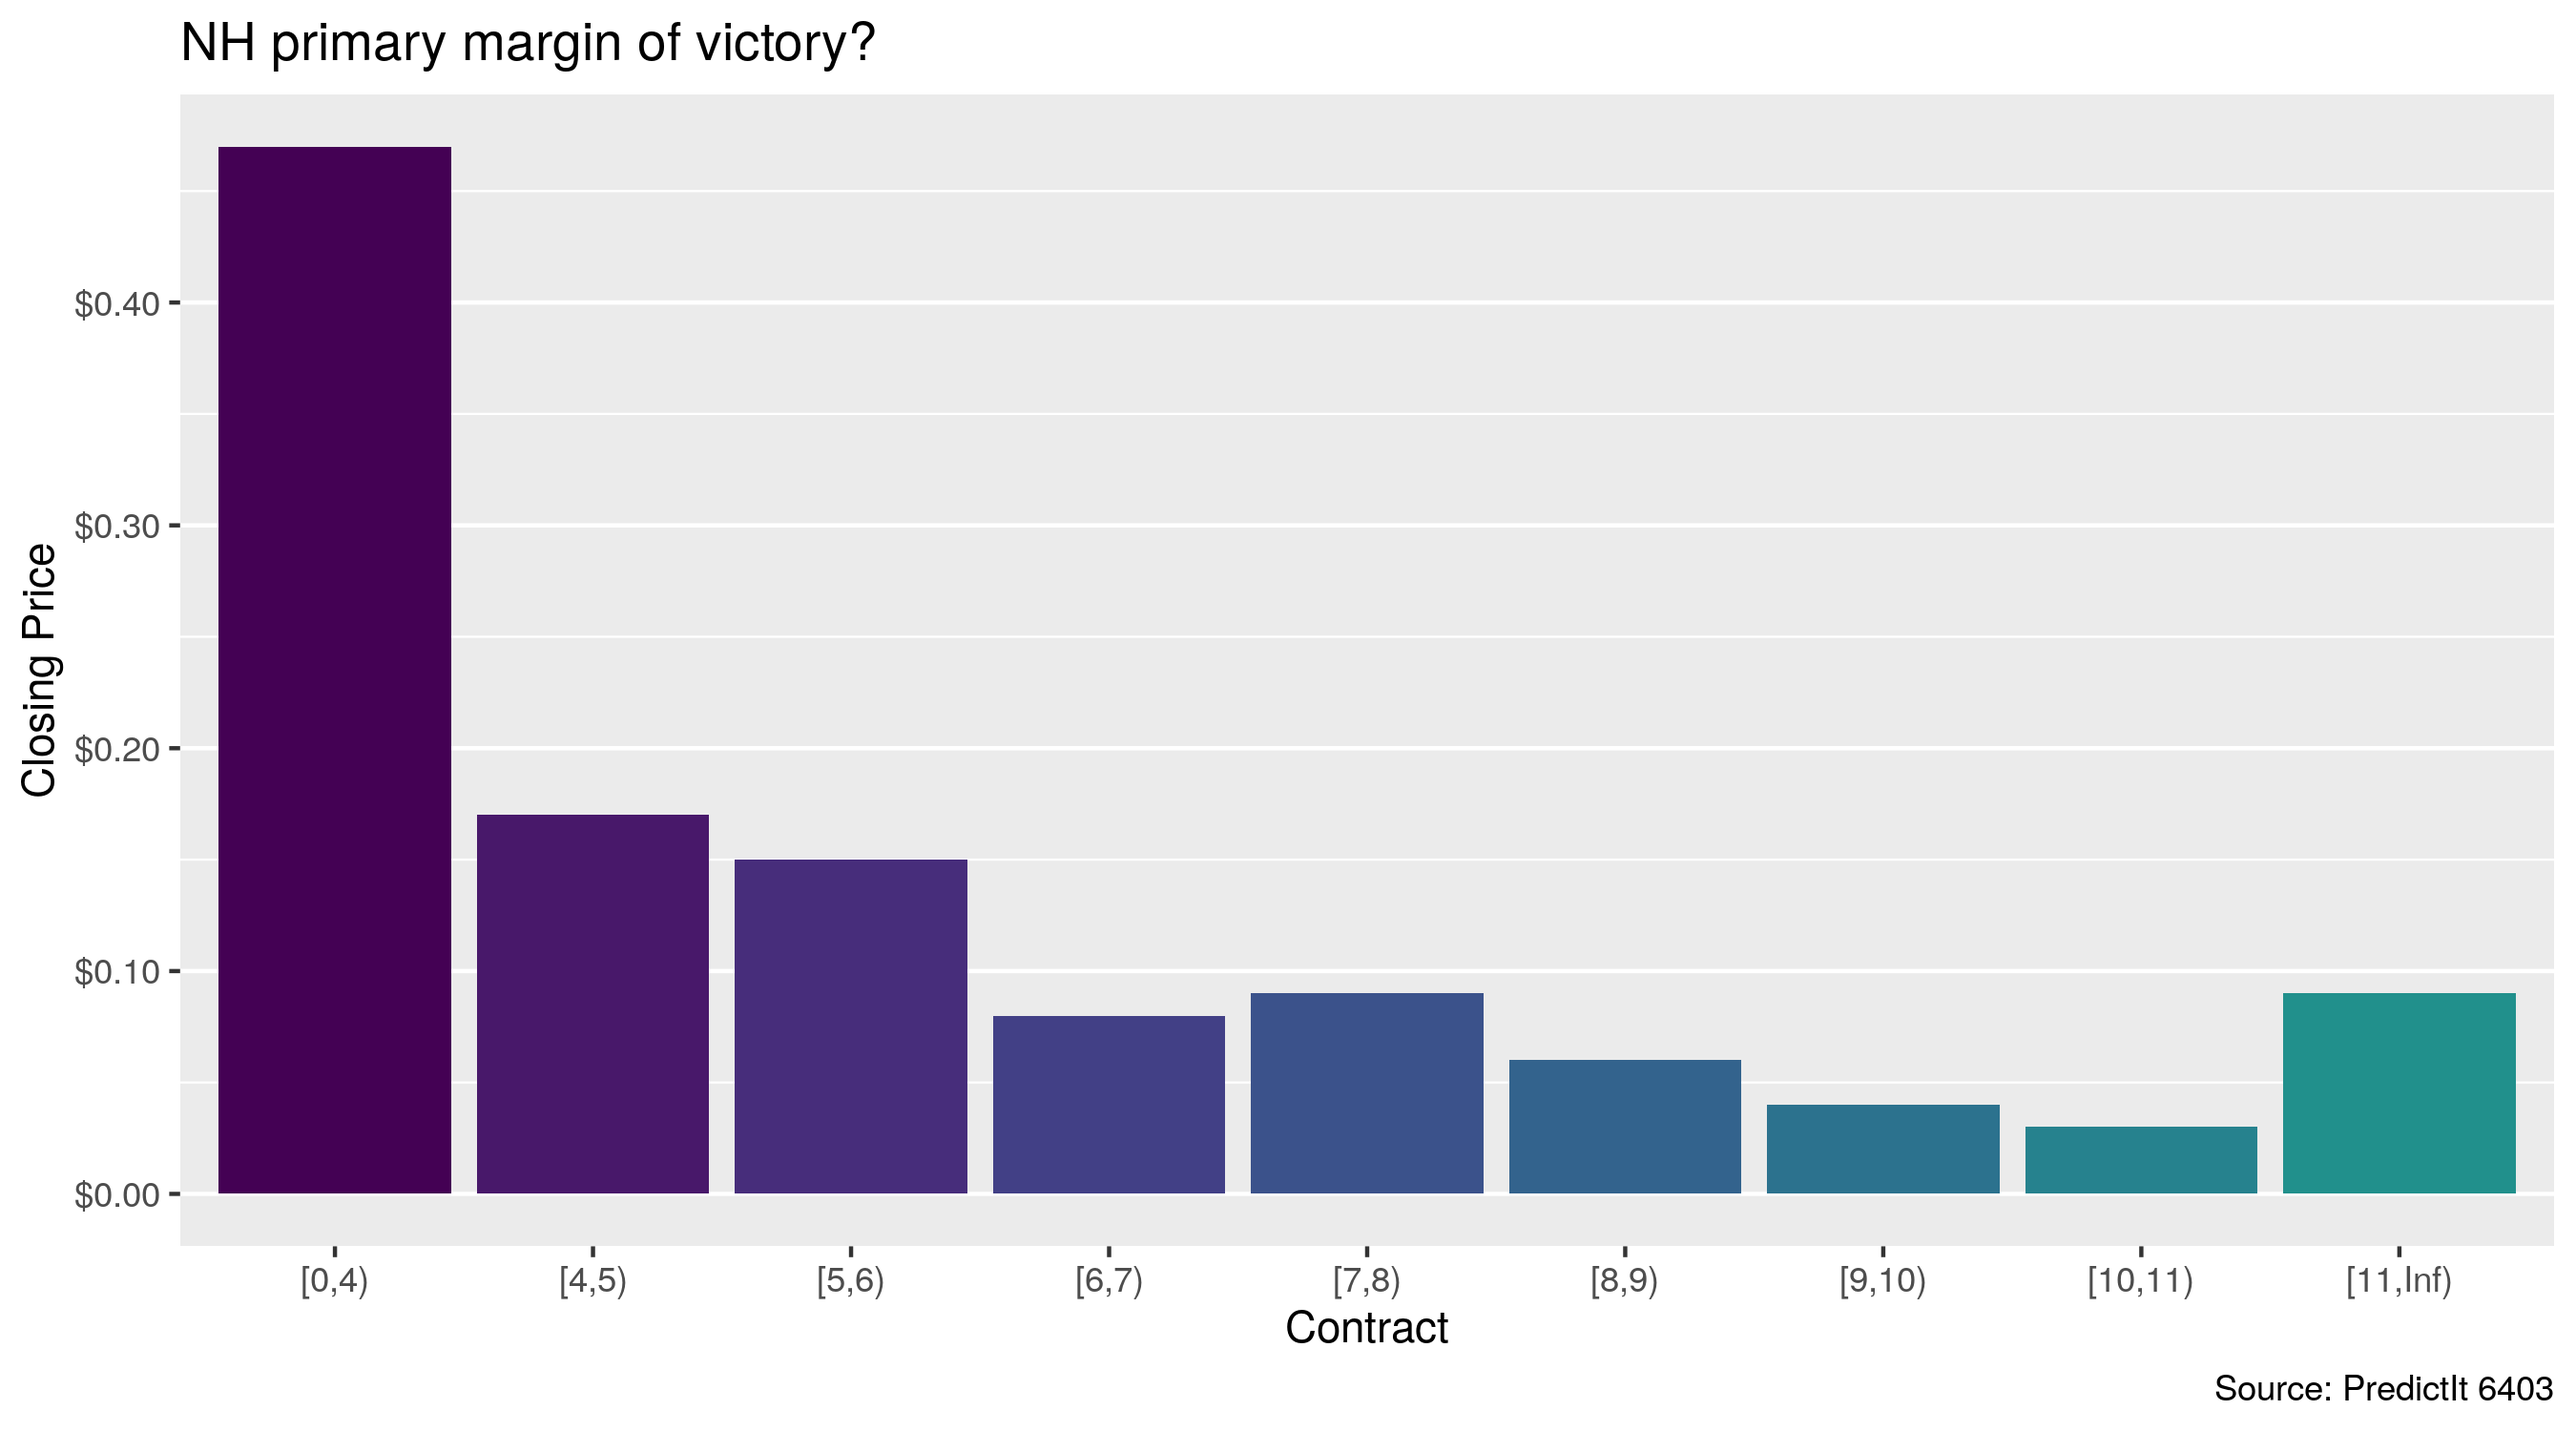
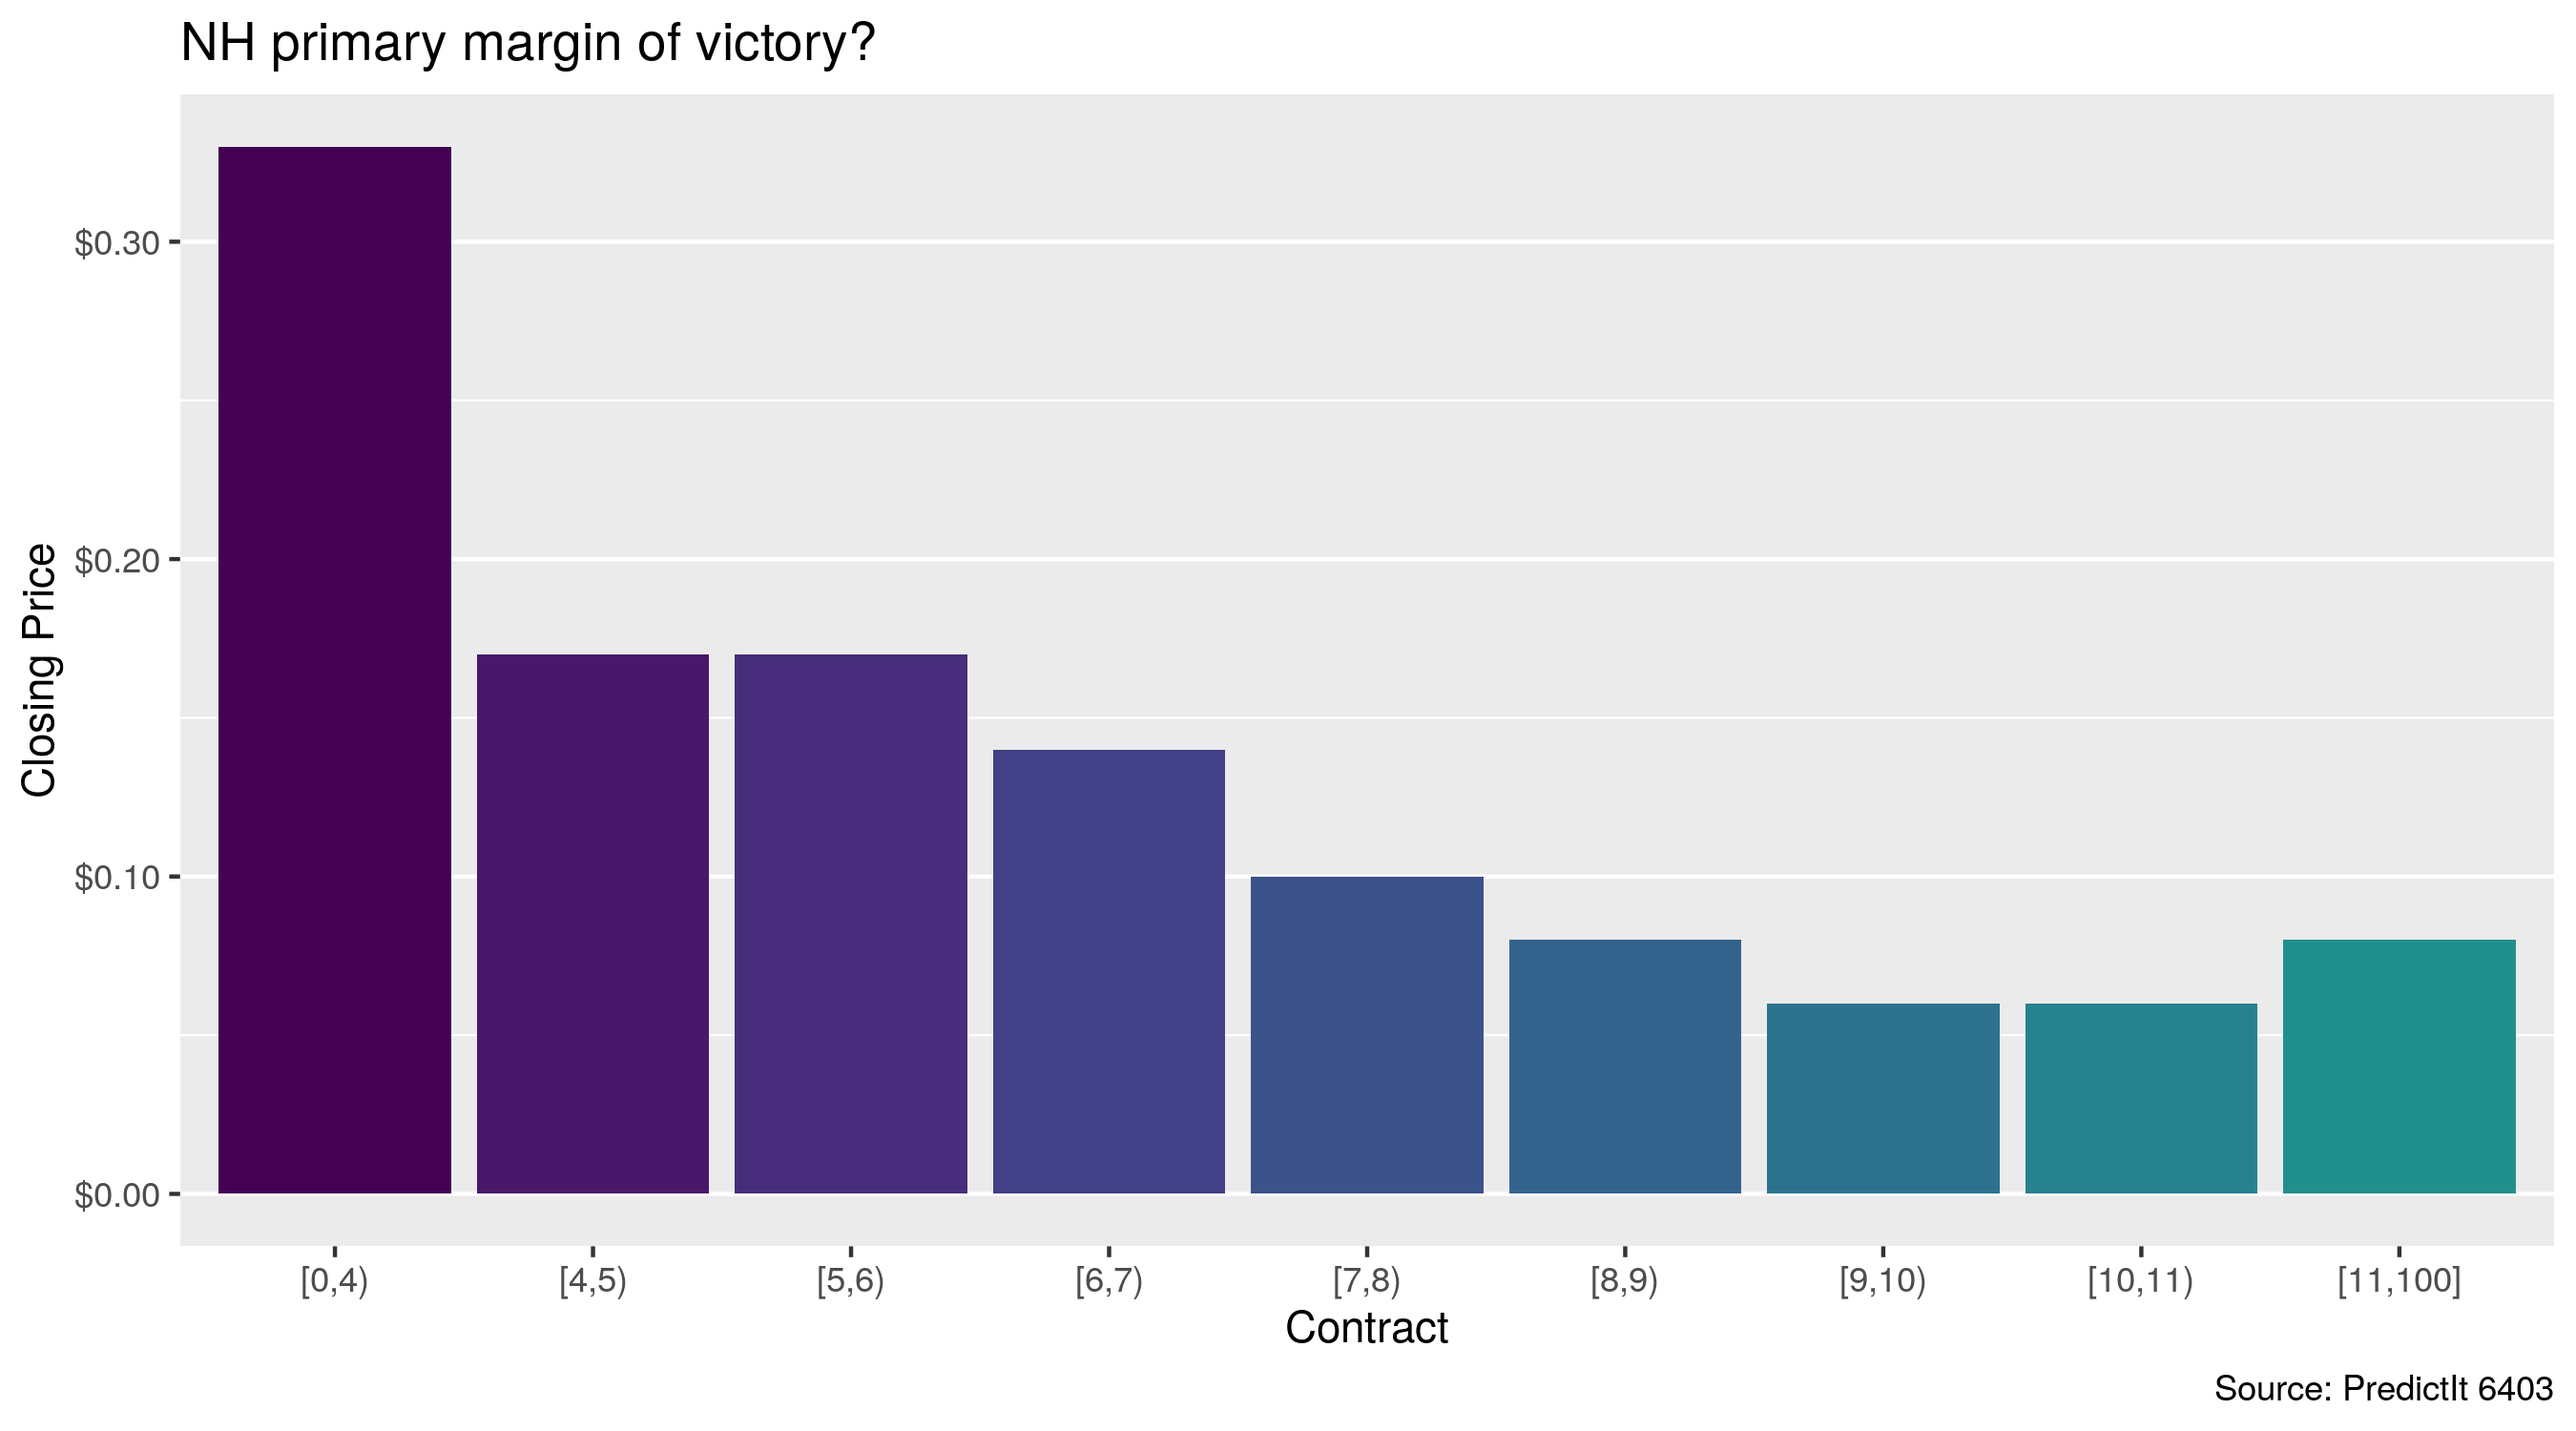
Use new badges

diff --git a/README.md b/README.md
@@ -12,7 +12,7 @@ status](https://www.r-pkg.org/badges/version/predictr)](https://CRAN.R-project.o
 [![Travis build
 status](https://travis-ci.org/kiernann/predictr.svg?branch=master)](https://travis-ci.org/kiernann/predictr)
 [![Codecov test
-coverage](https://codecov.io/gh/kiernann/predictr/branch/master/graph/badge.svg)](https://codecov.io/gh/kiernann/predictr?branch=master)
+coverage](https://img.shields.io/codecov/c/github/kiernann/predictr/master.svg)](https://codecov.io/gh/kiernann/predictr?branch=master)
 <!-- badges: end -->
 
 The goal of predictr is to access the
@@ -53,15 +53,15 @@ market_price(6403)
 #> # A tibble: 9 x 7
 #>   time                  mid market                      cid contract  last close
 #>   <dttm>              <int> <chr>                     <int> <ord>    <dbl> <dbl>
-#> 1 2020-02-09 16:11:38  6403 NH primary margin of vic… 20984 [0,4)     0.37  0.47
-#> 2 2020-02-09 16:11:38  6403 NH primary margin of vic… 20988 [4,5)     0.15  0.17
-#> 3 2020-02-09 16:11:38  6403 NH primary margin of vic… 20990 [5,6)     0.11  0.15
-#> 4 2020-02-09 16:11:38  6403 NH primary margin of vic… 20991 [6,7)     0.11  0.08
-#> 5 2020-02-09 16:11:38  6403 NH primary margin of vic… 20985 [7,8)     0.08  0.09
-#> 6 2020-02-09 16:11:38  6403 NH primary margin of vic… 20986 [8,9)     0.05  0.06
-#> 7 2020-02-09 16:11:38  6403 NH primary margin of vic… 20987 [9,10)    0.04  0.04
-#> 8 2020-02-09 16:11:38  6403 NH primary margin of vic… 20992 [10,11)   0.03  0.03
-#> 9 2020-02-09 16:11:38  6403 NH primary margin of vic… 20989 [11,Inf)  0.05  0.09
+#> 1 2020-02-10 15:41:29  6403 NH primary margin of vic… 20984 [0,4)     0.31  0.33
+#> 2 2020-02-10 15:41:29  6403 NH primary margin of vic… 20988 [4,5)     0.12  0.17
+#> 3 2020-02-10 15:41:29  6403 NH primary margin of vic… 20990 [5,6)     0.11  0.17
+#> 4 2020-02-10 15:41:29  6403 NH primary margin of vic… 20991 [6,7)     0.11  0.14
+#> 5 2020-02-10 15:41:29  6403 NH primary margin of vic… 20985 [7,8)     0.11  0.1 
+#> 6 2020-02-10 15:41:29  6403 NH primary margin of vic… 20986 [8,9)     0.07  0.08
+#> 7 2020-02-10 15:41:29  6403 NH primary margin of vic… 20987 [9,10)    0.08  0.06
+#> 8 2020-02-10 15:41:29  6403 NH primary margin of vic… 20992 [10,11)   0.08  0.06
+#> 9 2020-02-10 15:41:29  6403 NH primary margin of vic… 20989 [11,100]  0.12  0.08
 ```
 
 Current and historical prices can be automatically plotted with
